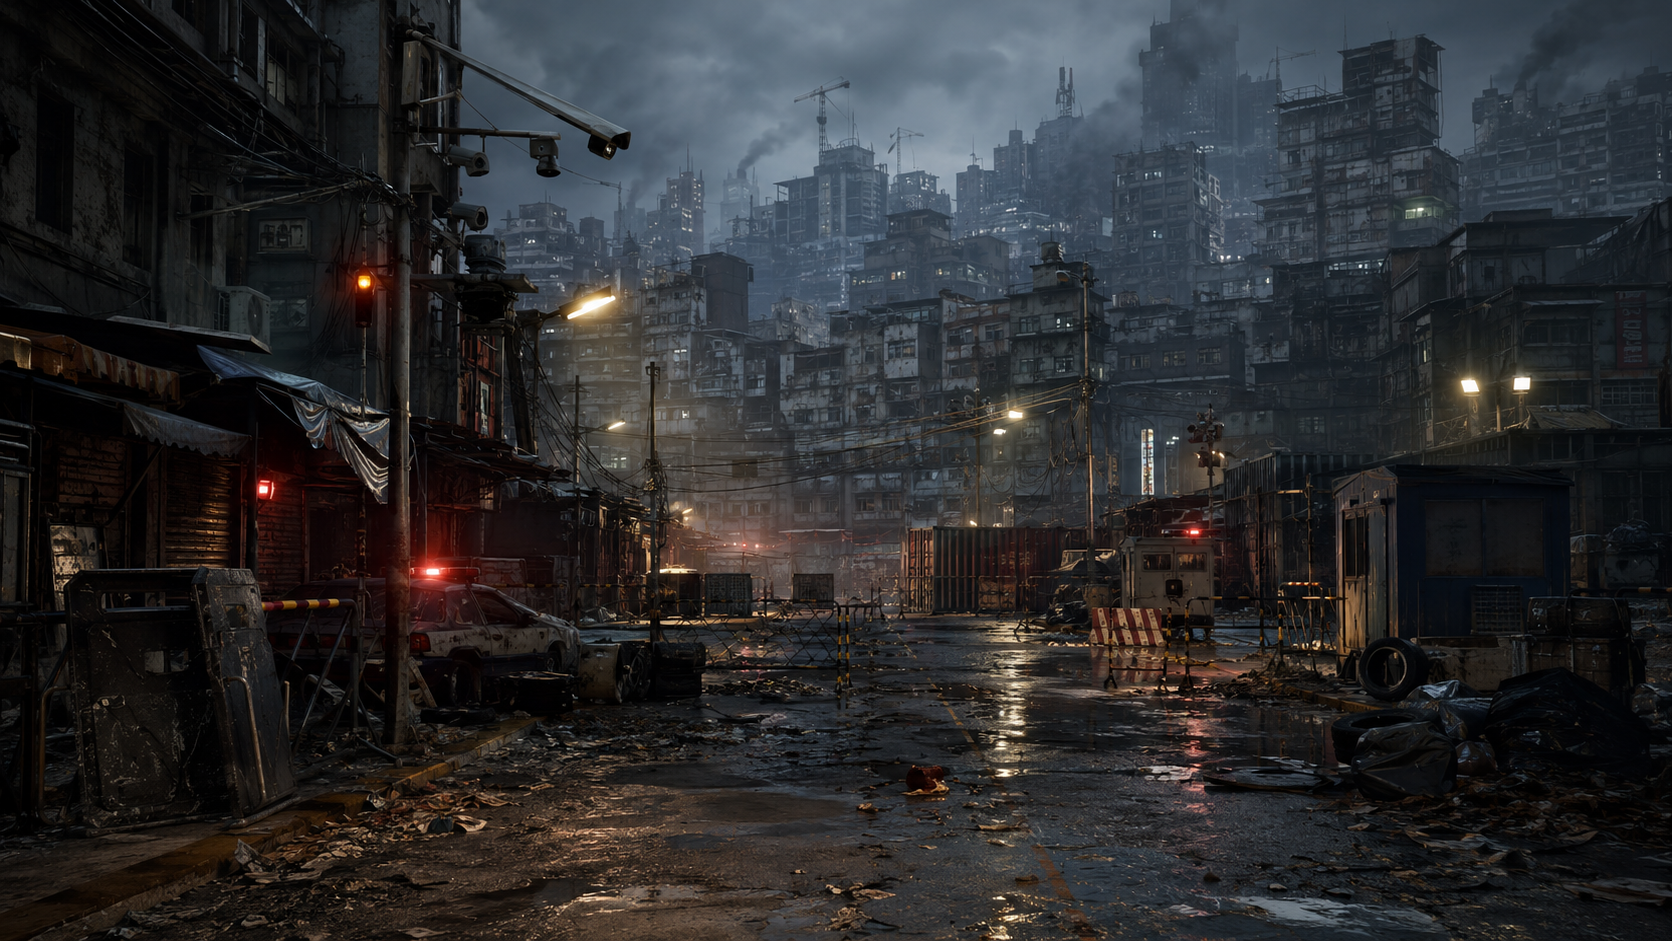
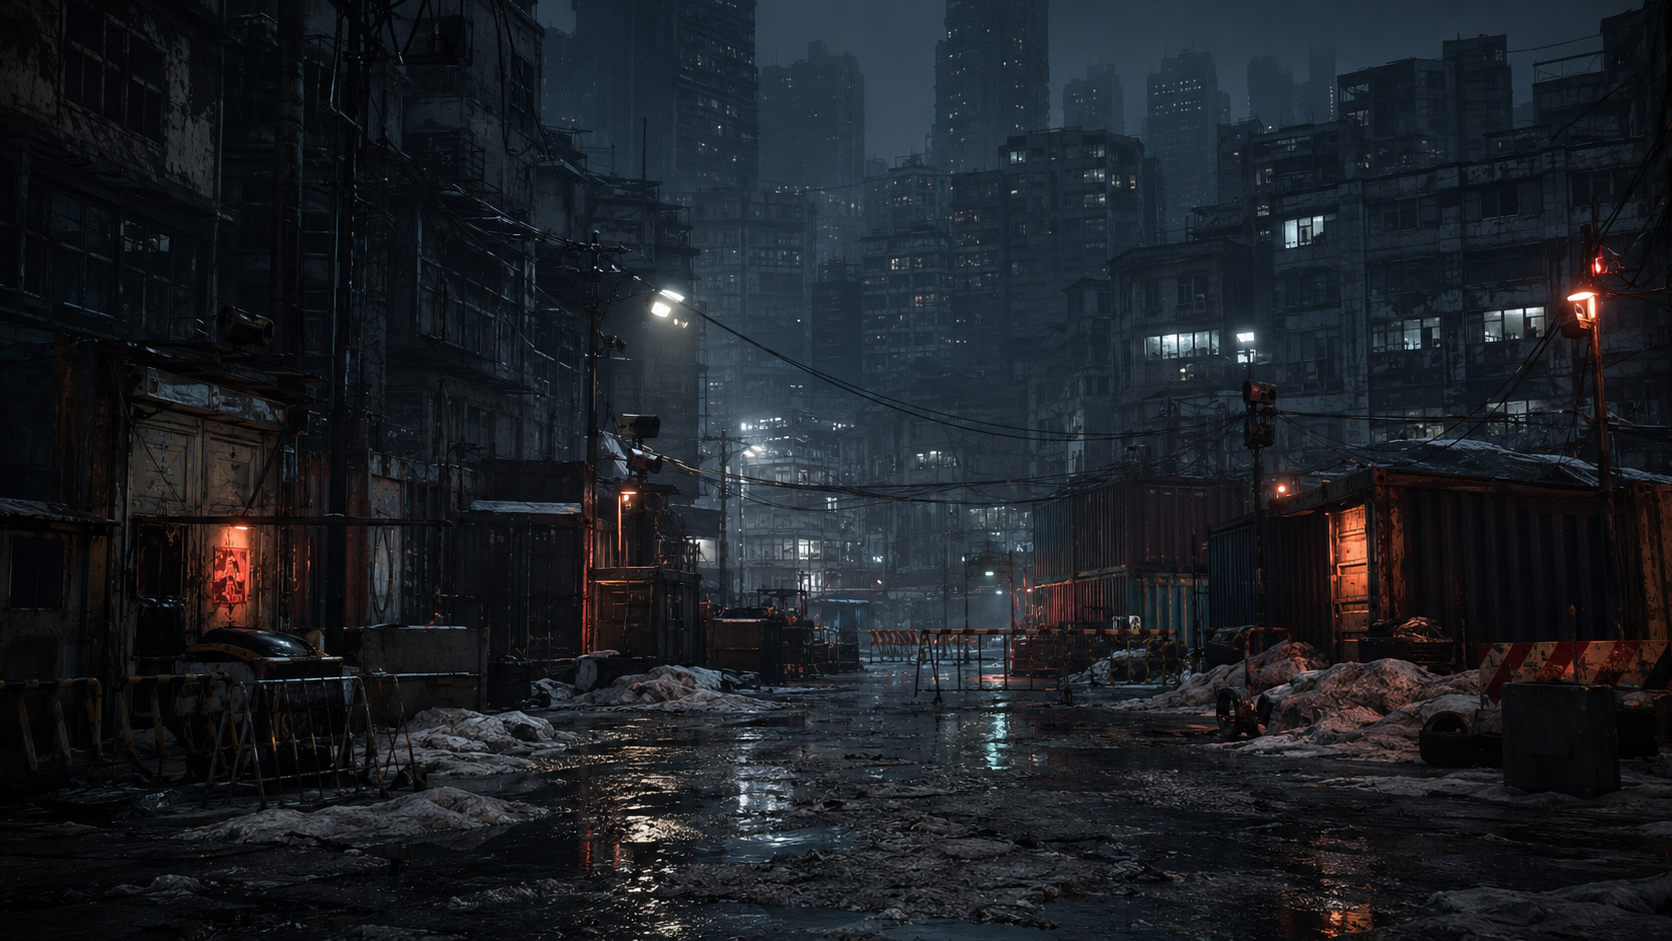
feat: cinematic frozen-wasteland cover, cooler theme, stacked relationship layout, updated songjiang image

diff --git a/src/styles.css b/src/styles.css
@@ -6,12 +6,12 @@
   font-synthesis: none;
   text-rendering: optimizeLegibility;
   -webkit-font-smoothing: antialiased;
-  --bg: #0c0907;
-  --bg-deep: #080604;
-  --panel: rgba(26, 19, 14, 0.55);
-  --panel-strong: rgba(34, 24, 17, 0.72);
-  --glass-border: rgba(255, 240, 214, 0.12);
-  --glass-highlight: rgba(255, 245, 220, 0.14);
+  --bg: #080c12;
+  --bg-deep: #060a0f;
+  --panel: rgba(18, 26, 36, 0.55);
+  --panel-strong: rgba(24, 34, 46, 0.72);
+  --glass-border: rgba(206, 226, 240, 0.12);
+  --glass-highlight: rgba(220, 236, 250, 0.12);
   --text: #f6ead2;
   --muted: #b9a98d;
   --faint: #7c6d58;
@@ -39,10 +39,10 @@ body {
   min-width: 320px;
   min-height: 100dvh;
   background:
-    radial-gradient(ellipse 60% 50% at 18% 8%, rgba(196, 85, 50, 0.28), transparent 60%),
-    radial-gradient(ellipse 50% 50% at 88% 30%, rgba(111, 155, 214, 0.12), transparent 55%),
-    radial-gradient(ellipse 70% 60% at 50% 110%, rgba(230, 177, 92, 0.1), transparent 60%),
-    #0c0907;
+    radial-gradient(ellipse 60% 50% at 16% 6%, rgba(70, 110, 150, 0.26), transparent 60%),
+    radial-gradient(ellipse 55% 50% at 86% 24%, rgba(120, 150, 190, 0.14), transparent 58%),
+    radial-gradient(ellipse 70% 55% at 50% 112%, rgba(196, 85, 50, 0.12), transparent 62%),
+    #080c12;
   background-attachment: fixed;
 }
 
@@ -53,8 +53,8 @@ body::after {
   z-index: 0;
   pointer-events: none;
   background:
-    radial-gradient(circle at 30% 40%, rgba(255, 122, 69, 0.08), transparent 30%),
-    radial-gradient(circle at 70% 60%, rgba(111, 155, 214, 0.07), transparent 32%);
+    radial-gradient(circle at 28% 38%, rgba(120, 160, 200, 0.08), transparent 30%),
+    radial-gradient(circle at 72% 62%, rgba(90, 130, 170, 0.07), transparent 32%);
   filter: blur(40px);
   animation: auroraDrift 22s ease-in-out infinite alternate;
 }
@@ -169,28 +169,50 @@ input:focus-visible,
 
 .hero-section {
   min-height: 100dvh;
-  display: grid;
-  grid-template-columns: minmax(0, 1.02fr) minmax(340px, 0.88fr);
-  align-items: center;
-  gap: clamp(32px, 7vw, 96px);
-  padding: 92px clamp(20px, 6vw, 96px) 64px;
+  display: flex;
+  align-items: flex-end;
+  padding: 0 clamp(20px, 7vw, 110px) clamp(56px, 10vh, 120px);
   position: relative;
   overflow: hidden;
 }
 
-.hero-section::before {
+.hero-cover-image {
+  position: absolute;
+  inset: 0;
+  background-image: url("/scenes/songjiang.png");
+  background-size: cover;
+  background-position: center 38%;
+  transform: scale(1.06);
+  animation: heroPan 26s ease-in-out infinite alternate;
+}
+
+.hero-cover-grade {
+  position: absolute;
+  inset: 0;
+  background:
+    linear-gradient(180deg, rgba(8, 14, 22, 0.55) 0%, rgba(8, 14, 22, 0.2) 38%, rgba(7, 11, 18, 0.9) 100%),
+    linear-gradient(90deg, rgba(7, 11, 18, 0.82) 0%, rgba(7, 11, 18, 0.25) 50%, transparent 100%),
+    radial-gradient(circle at 70% 30%, rgba(60, 110, 150, 0.16), transparent 55%);
+  mix-blend-mode: normal;
+}
+
+.hero-cover-grade::after {
   content: "";
   position: absolute;
-  inset: 12% 7% 10% 16%;
-  border: 1px solid var(--line);
-  border-radius: 28px;
-  transform: rotate(-2deg);
-  pointer-events: none;
+  inset: 0;
+  background: rgba(40, 80, 120, 0.16);
+  mix-blend-mode: overlay;
+}
+
+@keyframes heroPan {
+  from { transform: scale(1.06) translateX(0); }
+  to { transform: scale(1.12) translateX(-2%); }
 }
 
 .hero-copy-block {
   position: relative;
   z-index: 1;
+  max-width: 720px;
 }
 
 .hero-copy-block > * {
@@ -198,14 +220,10 @@ input:focus-visible,
   animation: heroReveal 800ms cubic-bezier(0.16, 1, 0.3, 1) forwards;
 }
 
-.hero-copy-block > .hero-kicker { animation-delay: 80ms; }
-.hero-copy-block > h1 { animation-delay: 200ms; }
-.hero-copy-block > .hero-copy { animation-delay: 360ms; }
-.hero-copy-block > .hero-actions { animation-delay: 500ms; }
-
-.hero-map-card {
-  animation: heroReveal 1000ms cubic-bezier(0.16, 1, 0.3, 1) 420ms backwards;
-}
+.hero-copy-block > .hero-kicker { animation-delay: 120ms; }
+.hero-copy-block > h1 { animation-delay: 260ms; }
+.hero-copy-block > .hero-copy { animation-delay: 420ms; }
+.hero-copy-block > .hero-actions { animation-delay: 560ms; }
 
 @keyframes heroReveal {
   from {
@@ -233,22 +251,23 @@ input:focus-visible,
 .hero-section h1 {
   max-width: 880px;
   margin: 0;
-  font-size: clamp(2.8rem, 7vw, 6.5rem);
-  line-height: 1.05;
+  font-size: clamp(3rem, 7.5vw, 7rem);
+  line-height: 1.04;
   letter-spacing: -0.03em;
-  background: linear-gradient(180deg, #fff7ea 30%, #e6b15c 130%);
+  background: linear-gradient(180deg, #f4fbff 26%, #aac4dc 128%);
   -webkit-background-clip: text;
   background-clip: text;
   color: transparent;
-  text-shadow: 0 8px 40px rgba(196, 85, 50, 0.25);
+  text-shadow: 0 10px 50px rgba(8, 16, 26, 0.6);
 }
 
 .hero-copy {
-  max-width: 560px;
-  margin: 24px 0 0;
-  color: var(--muted);
-  font-size: clamp(1rem, 2vw, 1.28rem);
-  line-height: 1.8;
+  max-width: 600px;
+  margin: 22px 0 0;
+  color: #d7e2ec;
+  font-size: clamp(1rem, 2vw, 1.3rem);
+  line-height: 1.85;
+  text-shadow: 0 2px 14px rgba(8, 16, 26, 0.7);
 }
 
 .hero-actions {
@@ -304,64 +323,6 @@ input:focus-visible,
   transform: translateY(1px);
 }
 
-.hero-map-card {
-  position: relative;
-  min-height: 520px;
-  border: 1px solid var(--line-strong);
-  border-radius: 28px;
-  background:
-    radial-gradient(circle at 28% 28%, rgba(230, 177, 92, 0.2), transparent 20%),
-    radial-gradient(circle at 72% 70%, rgba(196, 85, 50, 0.2), transparent 22%),
-    linear-gradient(145deg, rgba(33, 24, 18, 0.88), rgba(15, 11, 9, 0.82));
-  box-shadow: 0 26px 80px rgba(0, 0, 0, 0.28);
-  overflow: hidden;
-}
-
-.map-radar {
-  position: absolute;
-  inset: 12%;
-  border: 1px dashed rgba(230, 177, 92, 0.38);
-  border-radius: 50%;
-}
-
-.map-radar::before,
-.map-radar::after {
-  content: "";
-  position: absolute;
-  inset: 18%;
-  border: 1px solid rgba(230, 177, 92, 0.12);
-  border-radius: inherit;
-}
-
-.map-radar::after {
-  inset: 35%;
-}
-
-.hero-node {
-  position: absolute;
-  border: 1px solid rgba(230, 177, 92, 0.5);
-  border-radius: var(--radius-pill);
-  padding: 9px 14px;
-  color: #f7d99b;
-  background: rgba(15, 11, 9, 0.74);
-  box-shadow: 0 12px 30px rgba(0, 0, 0, 0.24);
-}
-
-.node-a { left: 10%; top: 67%; }
-.node-b { left: 36%; top: 48%; }
-.node-c { left: 42%; top: 76%; }
-.node-d { right: 12%; top: 42%; }
-
-.route-line {
-  position: absolute;
-  height: 2px;
-  background: linear-gradient(90deg, transparent, var(--accent-strong), transparent);
-  transform-origin: left center;
-}
-
-.line-one { left: 21%; top: 67%; width: 28%; transform: rotate(-26deg); }
-.line-two { left: 44%; top: 56%; width: 34%; transform: rotate(28deg); }
-.line-three { left: 51%; top: 77%; width: 37%; transform: rotate(-38deg); }
 
 .section-block {
   padding: clamp(76px, 9vw, 132px) clamp(20px, 6vw, 96px);
@@ -396,13 +357,18 @@ input:focus-visible,
   line-height: 1.8;
 }
 
-.character-grid,
 .timeline-layout,
 .source-card {
   display: grid;
   grid-template-columns: minmax(0, 1.2fr) minmax(320px, 0.8fr);
   gap: 22px;
   align-items: stretch;
+}
+
+.character-grid {
+  display: grid;
+  grid-template-columns: 1fr;
+  gap: 22px;
 }
 
 .world-map-layout {
@@ -746,7 +712,7 @@ input:focus-visible,
 }
 
 .character-grid {
-  grid-template-columns: minmax(320px, 0.8fr) minmax(0, 1.2fr);
+  grid-template-columns: 1fr;
 }
 
 .character-panel {

diff --git a/src/components/Hero.tsx b/src/components/Hero.tsx
@@ -3,10 +3,12 @@ import type { NovelDataset } from "../types/novel";
 export function Hero({ dataset, onNavigate }: { dataset: NovelDataset; onNavigate: (page: "map" | "characters") => void }) {
   return (
     <section id="top" className="hero-section">
+      <div className="hero-cover-image" aria-hidden="true" />
+      <div className="hero-cover-grade" aria-hidden="true" />
       <div className="hero-copy-block">
-        <p className="hero-kicker">{dataset.title}</p>
+        <p className="hero-kicker">{dataset.title} · 冰封末世</p>
         <h1>灾变之后，秩序重写</h1>
-        <p className="hero-copy">从待规划区到九区，一群人在乱世里争命、结盟、开战。</p>
+        <p className="hero-copy">数十年冰封，资源殆尽。从待规划区到九区，一群人在极寒废土里争命、结盟、开战。</p>
         <div className="hero-actions">
           <a
             className="button primary"
@@ -29,16 +31,6 @@ export function Hero({ dataset, onNavigate }: { dataset: NovelDataset; onNavigat
             查看人物
           </a>
         </div>
-      </div>
-      <div className="hero-map-card" aria-label="小说设定概览">
-        <div className="map-radar" />
-        <div className="hero-node node-a">待规划区</div>
-        <div className="hero-node node-b">松江</div>
-        <div className="hero-node node-c">川府</div>
-        <div className="hero-node node-d">北伐</div>
-        <div className="route-line line-one" />
-        <div className="route-line line-two" />
-        <div className="route-line line-three" />
       </div>
     </section>
   );
